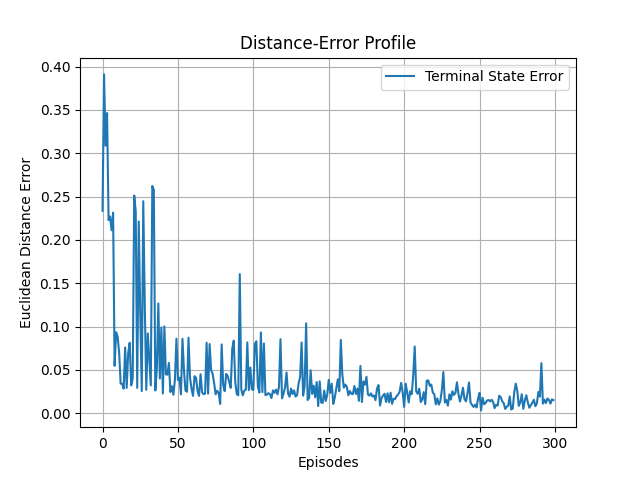
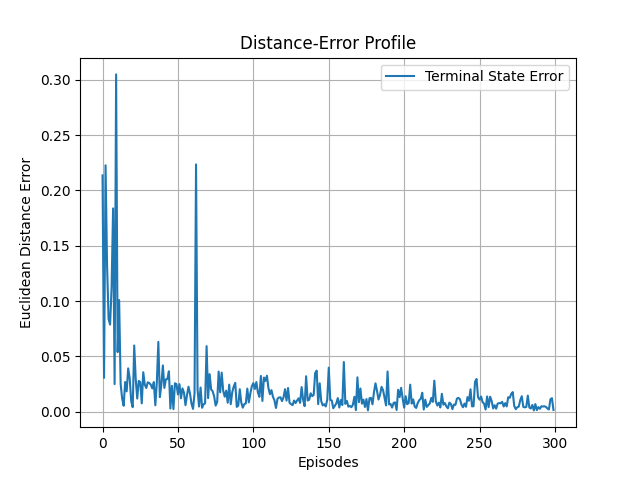
Run: PyTorch DDPG

diff --git a/rl_agents/DDPG.py b/rl_agents/DDPG.py
@@ -6,6 +6,7 @@ import torch.nn.functional as F
 import torch.optim as optim
 from replay_buffers.PER import PrioritizedReplayBuffer
 from replay_buffers.utils import LinearSchedule
+import copy
 T.manual_seed(0)
 np.random.seed(0)
 
@@ -42,6 +43,7 @@ class Critic(nn.Module):
         self.model_name = name
         self.checkpoint = self.model_name
 
+        # Architecture
         self.H1 = nn.Linear(input_dim, density)
         self.H2 = nn.Linear(density, density)
         self.drop = nn.Dropout(p=0.1)
@@ -78,6 +80,7 @@ class Actor(nn.Module):
         self.model_name = name
         self.checkpoint = self.model_name
 
+        # Architecture
         self.H1 = nn.Linear(input_dim, density)
         self.H2 = nn.Linear(density, density)
         self.drop = nn.Dropout(p=0.1)
@@ -117,9 +120,9 @@ class Agent:
         self.datapath = datapath
         self.n_games = n_games
         self.optim_steps = 0
-        self.max_size = 25000
+        self.max_size = 2500000
         self.memory = PrioritizedReplayBuffer(self.max_size, per_alpha)
-        self.beta_scheduler = LinearSchedule(n_games, per_beta, 0.7)
+        self.beta_scheduler = LinearSchedule(n_games, per_beta, 0.99)
         self.her = enable_HER
 
         self.batch_size = batch_size
@@ -150,6 +153,9 @@ class Agent:
             self.desired_distance = 0.01
             self.noisy_actor = Actor(
                 self.obs_shape, self.n_actions, alpha, name='noisy_actor')
+
+        else:
+            raise NotImplementedError("This noise is not implmented!")
 
         self.update_networks()
 
